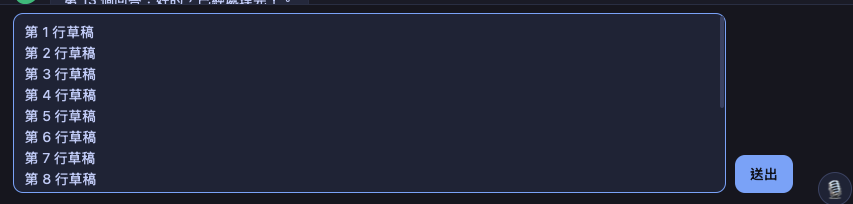
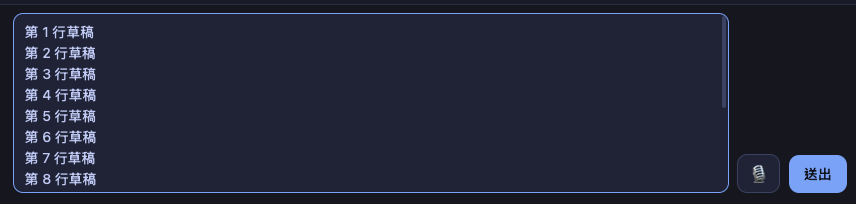
The chat view's microphone sits beside Send, and what it hears goes into the input box
Asked for in daily use: the microphone floated apart from the input box, and its words were
typed straight into the CLI. In the chat view:
  - 🎙 beside Send: press to record (red, a timer, "press again to stop, Esc to cancel" under
    the box), press again and the words go into the input box at the cursor, to be read
    before sending; Esc throws the recording away; it stops by itself at 5 minutes, as the
    backend does
  - the same recording, permission and speech-to-text as the floating mic: mic_record_stop
    asked without a tab returns the words instead of typing them into a tab
  - a failure goes to the page's own guide (install ffmpeg or speech-to-text, or why it
    cannot record); after installing, the retry's words come back to the box too
    (micGuide takes an onText, exposed on __sfHost)
  - the floating mic hides while the view shows and is back for the terminal; the setting
    that hides it hides this one too
  - a space is added only between two latin words, not after Chinese
Tests: tests_chat_mic.py (new; Chromium and WebKit). qa-shots/chat-mic-idle.png,
chat-mic-rec.png (WebKit).

diff --git a/web/chat.js b/web/chat.js
@@ -602,7 +602,7 @@
       '<div id="chat-scroll"><div id="chat-col"><div id="chat-list"></div><div id="chat-live"></div></div></div>' +
       '<div id="chat-ask" hidden></div>' +
       '<div id="chat-compose"><div id="chat-attach" hidden></div><div id="chat-col-in"><textarea id="chat-input" rows="1"></textarea>' +
-      '<button id="chat-send"></button></div><div id="chat-note"></div></div>';
+      '<button id="chat-mic"></button><button id="chat-send"></button></div><div id="chat-note"></div></div>';
     wrap.appendChild(layer);
     headEl = layer.querySelector('#chat-head');
     list = layer.querySelector('#chat-list');
@@ -634,6 +634,13 @@
     });
     input.addEventListener('input', autosize);
     sendBtn.addEventListener('click', () => send());
+    micBtn = layer.querySelector('#chat-mic');
+    micBtn.addEventListener('click', micClick);
+    document.addEventListener('keydown', e => {          // Esc while recording: throw the recording away
+      if (e.key !== 'Escape' || micState !== 'rec' || !covers()) return;
+      e.preventDefault(); e.stopPropagation();
+      micCancel();
+    }, true);
     // Something focused the terminal hidden under the view (switchTab, a closing
     // dialog): keys would go into the CLI unseen, so the input box takes it instead.
     document.addEventListener('focusin', e => {
@@ -933,6 +940,7 @@
     input.placeholder = T(`Message ${displayName(sessions()[sid])} — Enter to send, Shift+Enter for a new line`,
                           `傳訊息給 ${displayName(sessions()[sid])}（Enter 送出，Shift+Enter 換行）`);
     sendBtn.textContent = T('Send', '送出');
+    renderMic();
     noteEl.textContent = view(sid).note || '';
   }
   // What a header says under the tab's name: what it is doing, or that it is waiting or ready.
@@ -1332,6 +1340,70 @@
     input.style.height = 'auto';
     // The height is border-box: add the borders, or a single line overflows by 2px and shows a bar.
     input.style.height = Math.min(input.scrollHeight + input.offsetHeight - input.clientHeight, 180) + 'px';
+  }
+
+  // ── the microphone, in the input row ─────────────────────────────────────
+  // The page's own recording (mic_record_start/stop: its permission, its speech-to-text), but
+  // asked without a tab, so the words come back instead of being typed into the CLI: they go
+  // into the input box to be read before sending. Esc throws a recording away; it stops by
+  // itself at 5 minutes, as the backend does. The floating mic hides while the view shows.
+  let micBtn = null, micState = 'idle', micT0 = 0, micIv = null;      // idle | rec | busy
+  function micSet(state) {
+    micState = state;
+    if (micIv) { clearInterval(micIv); micIv = null; }
+    micBtn.classList.toggle('rec', state === 'rec');
+    micBtn.classList.toggle('busy', state === 'busy');
+    const show = () => {
+      const sec = Math.floor((Date.now() - micT0) / 1000);
+      micBtn.textContent = `⏹ ${Math.floor(sec / 60)}:${String(sec % 60).padStart(2, '0')}`;
+      if (sec >= 300) micClick();
+    };
+    if (state === 'rec') { micT0 = Date.now(); show(); micIv = setInterval(show, 500); }
+    else micBtn.textContent = state === 'busy' ? '⏳' : '🎙';
+    micBtn.title = state === 'rec' ? T('Recording: press again to stop, Esc to cancel', '錄音中：再按一次停止，Esc 取消')
+      : T('Voice input: the words go into the box, not sent', '語音輸入：轉出來的字放進輸入框，不會直接送出');
+    note(state === 'rec' ? T('Recording… press 🎙 again to stop, Esc to cancel', '錄音中…再按一次停止，Esc 取消')
+      : state === 'busy' ? T('Turning it into words…', '正在轉成文字…') : '');
+  }
+  function micPut(text) {                     // into the box where the cursor is, for a read before sending
+    const t = String(text || '').trim();
+    if (!t) return;
+    const a = input.selectionStart ?? input.value.length, b = input.selectionEnd ?? a;
+    const before = input.value.slice(0, a), after = input.value.slice(b);
+    const pad = /[A-Za-z0-9]$/.test(before) && /^[A-Za-z0-9]/.test(t) ? ' ' : '';     // words, not 中文, get a space
+    input.value = before + pad + t + after;
+    const at = (before + pad + t).length;
+    input.focus();
+    input.setSelectionRange(at, at);
+    autosize();
+  }
+  async function micClick() {
+    const a = api();
+    if (!a || micState === 'busy') return;
+    let r = {};
+    if (micState === 'idle') {
+      try { r = JSON.parse(await a.mic_record_start()); } catch (_) { return; }
+      if (r.ok) { micSet('rec'); return; }
+    } else {
+      micSet('busy');
+      try { r = JSON.parse(await a.mic_record_stop('')); } catch (_) { micSet('idle'); return; }
+      if (r.ok) { micSet('idle'); micPut(r.text); return; }
+    }
+    micSet('busy');
+    try { await host().micGuide(r, micPut); } catch (_) {}      // install ffmpeg / STT, or say why
+    micSet('idle');
+  }
+  async function micCancel() {
+    micSet('busy');
+    try { await api().mic_record_stop('', true); } catch (_) {}
+    micSet('idle');
+  }
+  function renderMic() {                       // on each draw: shown or not, and its idle face in this language
+    if (!micBtn) return;
+    micBtn.hidden = ((settings() || {}).stt_mic_button === false);       // the same setting as the floating one
+    if (micState !== 'idle') return;
+    micBtn.textContent = '🎙';
+    micBtn.title = T('Voice input: the words go into the box, not sent', '語音輸入：轉出來的字放進輸入框，不會直接送出');
   }
   // `clearDraft`: the person answered the draft card with "clear it and send".
   async function send(clearDraft) {

diff --git a/web/index.html b/web/index.html
@@ -7862,7 +7862,7 @@ THE SOFTWARE IS PROVIDED "AS IS", WITHOUT WARRANTY OF ANY KIND, EXPRESS OR IMPLI
     } else if (micIv) { clearInterval(micIv); micIv = null; }
   }
 
-  async function micGuide(r) {
+  async function micGuide(r, onText) {   // onText: the chat view's mic takes a retry's words for its input box
     // 依失敗原因引導：裝 ffmpeg / 裝 STT（裝完自動重轉剛剛那段錄音）
     if (r.reason === 'no_ffmpeg') {
       if (confirm(t('micNeedFfmpeg'))) {
@@ -7877,8 +7877,8 @@ THE SOFTWARE IS PROVIDED "AS IS", WITHOUT WARRANTY OF ANY KIND, EXPRESS OR IMPLI
         micSet('busy');
         try { await pywebview.api.stt_install_local(); } catch (_) {}
         try {
-          const rr = JSON.parse(await pywebview.api.mic_retry_transcribe(activeId || ''));
-          if (rr.ok) return;
+          const rr = JSON.parse(await pywebview.api.mic_retry_transcribe(onText ? '' : (activeId || '')));
+          if (rr.ok) { if (onText && rr.text) onText(rr.text); return; }
         } catch (_) {}
         alert(t('micSttStillFail'));
       }
@@ -8614,7 +8614,7 @@ THE SOFTWARE IS PROVIDED "AS IS", WITHOUT WARRANTY OF ANY KIND, EXPRESS OR IMPLI
   });
   // web/bots.js 唯一的接點（頭像、主要 Bot 卡、關閉前寫記憶都只透過這裡碰分頁與設定）
   window.__sfHost = { sessions: () => sessions, active: () => activeId, cfg: () => config,
-    lang: () => lang, order: () => sessionOrder, switchTab, renderTabs, renderSidebar, renameSession, fitTerm, openSession, closeModal };
+    lang: () => lang, order: () => sessionOrder, switchTab, renderTabs, renderSidebar, renameSession, fitTerm, openSession, closeModal, micGuide };
 
   // Safety net for non-UI session changes. pywebview evaluate_js nudges can be
   // missed while the WebView is busy or while Python creates a session from a

diff --git a/web/chat.css b/web/chat.css
@@ -244,6 +244,16 @@ body.sf-chat-style #sb-new-convo:hover { border-color: #7aa2f7; color: #fff; }
   font: inherit; font-weight: 600; cursor: pointer;
 }
 #chat-send:hover { filter: brightness(1.08); }
+/* The microphone beside Send (chat.js); the floating one is for the terminal, so it hides here. */
+#chat-mic {
+  flex: none; padding: .55em .75em; border-radius: 10px; border: 1px solid var(--cm-line2); background: var(--cm-panel);
+  color: var(--cm-text); font: inherit; line-height: 1.5; cursor: pointer; white-space: nowrap;
+}
+#chat-mic:hover { border-color: var(--cm-blue); }
+#chat-mic.rec { background: var(--cm-red); border-color: var(--cm-red); color: #11131c; font-weight: 600; }
+#chat-mic.busy { opacity: .7; cursor: progress; }
+#chat-mic[hidden] { display: none; }
+body.sf-chat-shown #mic-fab { display: none !important; }
 #chat-layer.cm-has-mic #chat-compose { padding-right: calc(1.4em + 54px); }
 #chat-note { max-width: 880px; margin: .3em auto 0; min-height: 1.2em; font-size: .76em; color: var(--cm-dim); }
 #chat-note.warn { color: var(--cm-amber); }
